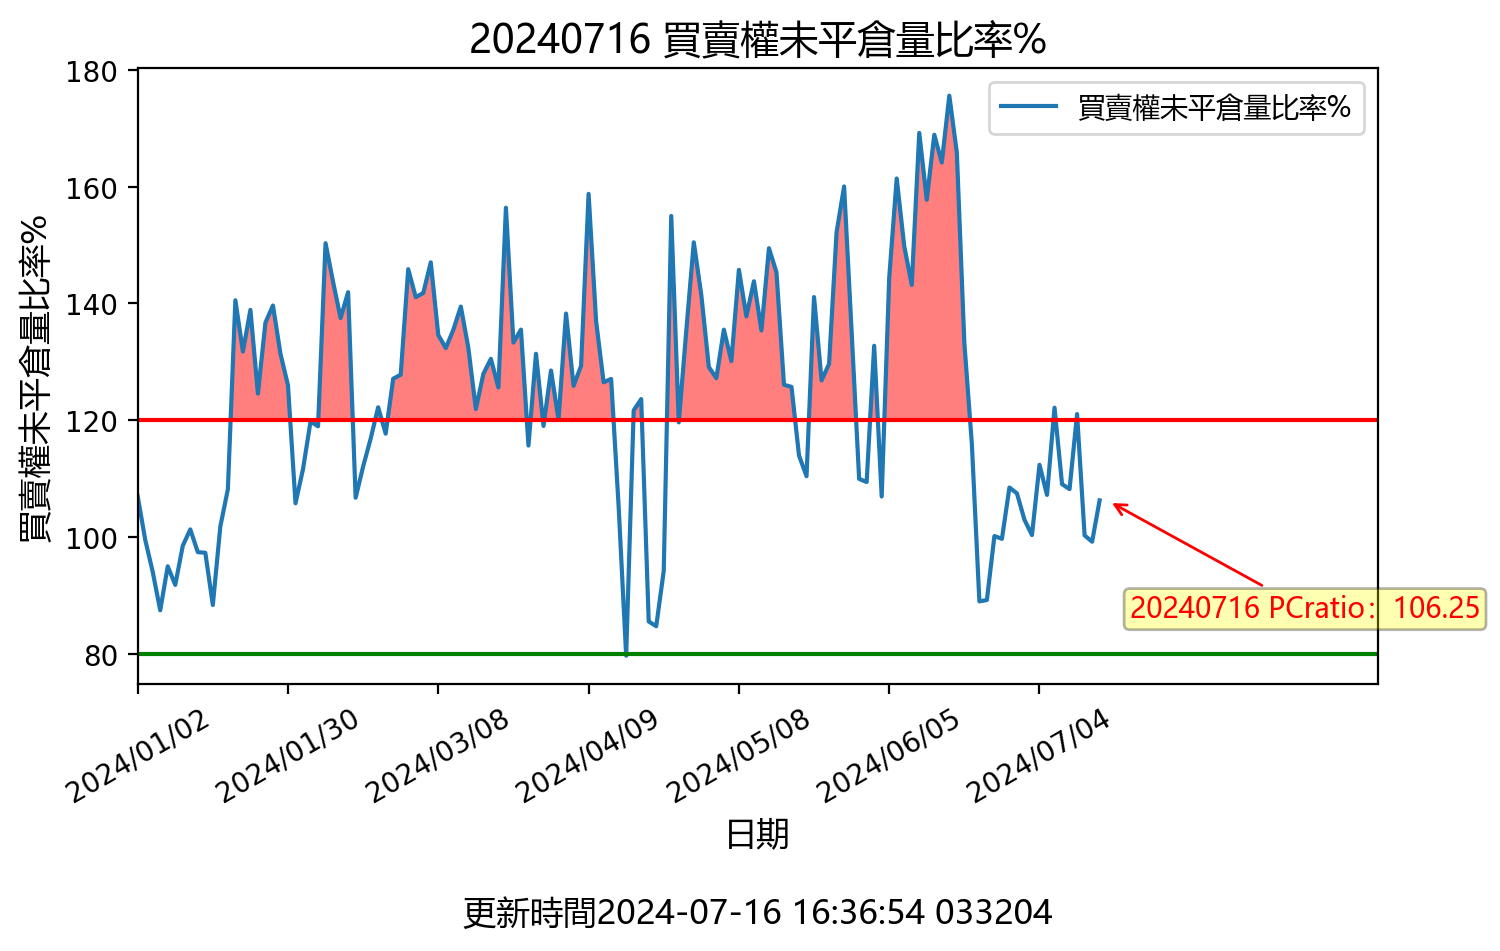
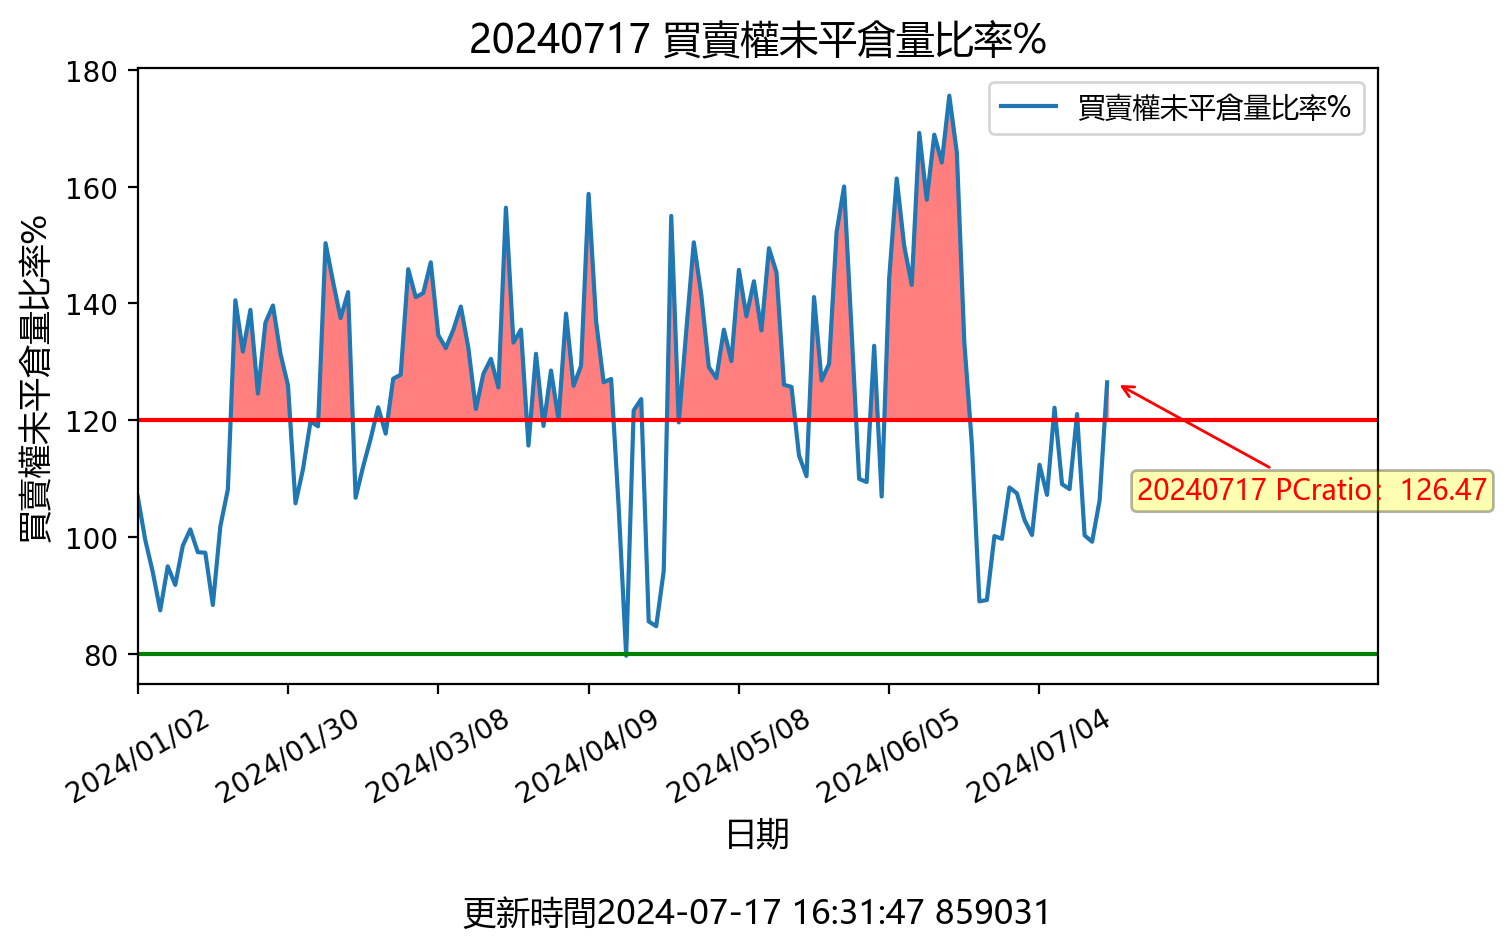
更新時間: Wed Jul 17 16:32:03 CST 2024

diff --git a/README.md b/README.md
@@ -1,12 +1,12 @@
-## 20240716 台指期「預估換倉成本」
+## 20240717 台指期「預估換倉成本」
 ![](images/txfcost.png)
 
-## 20240716 台指期「散戶小台多空比」
+## 20240717 台指期「散戶小台多空比」
 ![](images/bbiri.png)
 
-## 20240716 台指選擇權「Put/Call Ratios」
+## 20240717 台指選擇權「Put/Call Ratios」
 ![](images/pcratio.png)
 
-## 20240716 台指期「大額交易人」
+## 20240717 台指期「大額交易人」
 ![](images/blocktrade.png)
 
